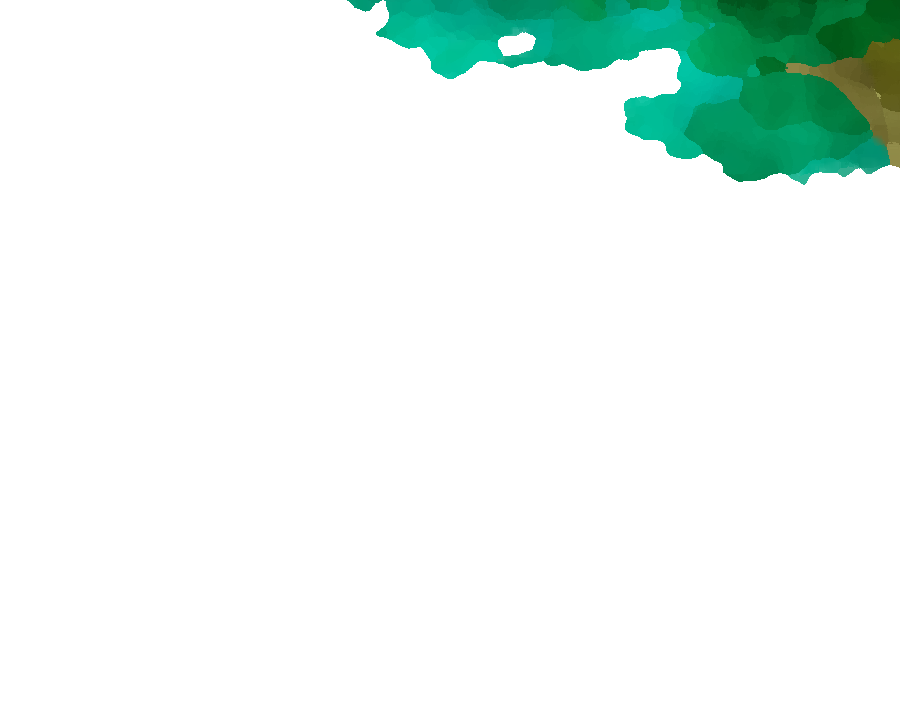
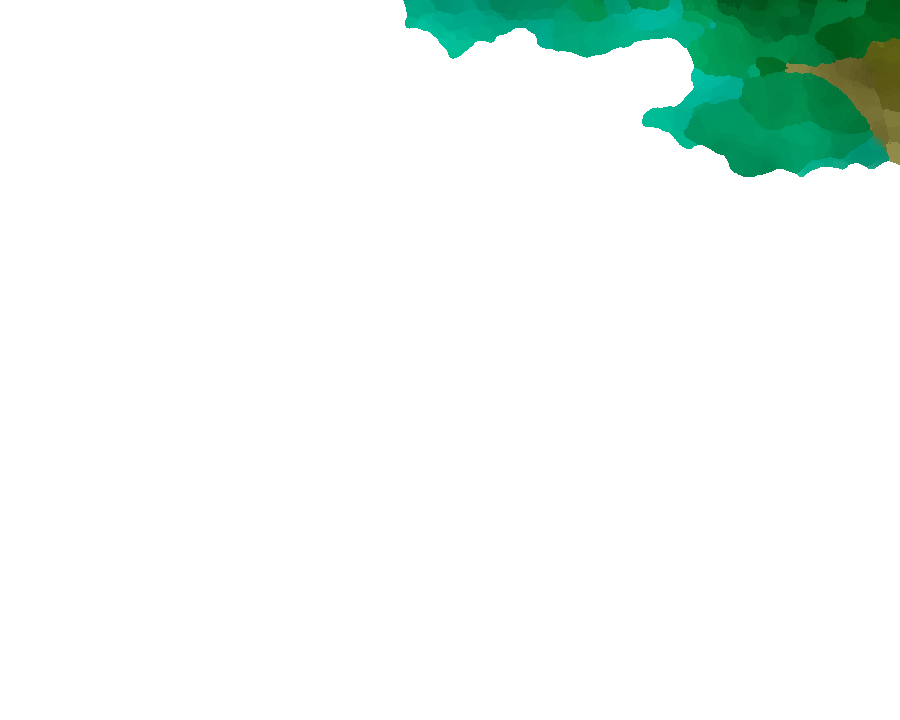
Add files via upload

Changed region(s): [[0.3733, 0.0, 0.8089, 0.2444], [0.84, 0.2139, 1.0, 0.275], [0.8089, 0.2444, 0.84, 0.275]]

diff --git a/src/Main.java b/src/Main.java
@@ -30,16 +30,18 @@ public class Main extends Application
     public static final int height = 800;
 
     public static double angleConstant = 30;
-    public static double xOffset = -200;
-    public static double yOffset = -50;
-
+    public static double xOffset = -180;
+    public static double yOffset = 0;
+    //
     ImageView imageViewBack;
     Image imgBack;
     String imgBackURL = "img\\back.png";
-
+    //
     ImageView imageViewFront;
     Image imgFront;
     String imgFrontURL = "img\\front.png";
+    //
+    private static double perlinOffset = Utils.getRandom(123456);
 
 
     //private static Color backcolor = Color.rgb(51, 51, 51);
@@ -53,11 +55,13 @@ public class Main extends Application
         Pane root = new Pane();
         child = root.getChildren();
 
+        //Back End
         imgBack = new Image(new FileInputStream(imgBackURL));
         imageViewBack = new ImageView(imgBack);
         imageViewBack.setFitWidth(width);
         imageViewBack.setFitHeight(height);
 
+        //Front End
         imgFront = new Image(new FileInputStream(imgFrontURL));
         imageViewFront = new ImageView(imgFront);
         imageViewFront.setFitWidth(width);
@@ -66,14 +70,9 @@ public class Main extends Application
 
         SunRise sunRise = new SunRise();
 
-        //Rectangle ground = new Rectangle(width, height * 0.30);
-
-        //ground.setLayoutY(height * 0.7);
-        //ground.setFill(Color.GREEN);
-
         FractalTree tree = new FractalTree();
 
-        child.addAll(sunRise.getNode(), imageViewBack, tree.getNode()); //, sakura.getNode()); //, test);
+        child.addAll(sunRise.getNode(), imageViewBack, tree.getNode());
 
         // End of Tree Branches
         ArrayList<Branch> endOfTrees = new ArrayList<>();
@@ -95,10 +94,14 @@ public class Main extends Application
         }
         child.add(imageViewFront);
 
-        root.setOnMouseMoved(e -> {
+        /*root.setOnMouseMoved(e -> {
             double angle = Utils.map(e.getSceneX(), 0, width, -90, 0);
             tree.update(angle);
-        });
+            for (Sakura sakura : sakuras)
+            {
+                sakura.update();
+            }
+        });*/
 
         //
         root.setOnKeyPressed(e -> {
@@ -125,17 +128,19 @@ public class Main extends Application
             }
         });
         //
-        update = new Timeline(new KeyFrame(Duration.millis(16), e -> {
+        update = new Timeline(new KeyFrame(Duration.millis(32), e -> {
             //60 fps
-            //System.out.println("loop test");
-            //Point2D p1 = b1.getFlowerPot();
-            //test.setCenterX(p1.getX());
-            //test.setCenterY(p1.getY());
+            double angle = SimpleNoise.noise(perlinOffset, 0, -90, 0, true);
+            tree.update(angle);
             for (Sakura sakura : sakuras)
             {
                 sakura.update();
             }
 
+
+
+
+            perlinOffset += 0.0025;
         }));
         update.setCycleCount(Timeline.INDEFINITE);
         update.setRate(1);

diff --git a/src/Sakura.java b/src/Sakura.java
@@ -19,6 +19,12 @@ public class Sakura implements IObservable
     private double size = 1;
     private boolean isSnapOff = false;
 
+    private double yvel = 0;
+    private double yacc = 0.01;
+    private double xvel = 0;
+    private double xacc = 0;
+    private double wind = Utils.getRandom(12345);
+
     static
     {
         rotate.setAngle(72);
@@ -31,8 +37,10 @@ public class Sakura implements IObservable
         body.setLayoutX(-30);
         body.setLayoutY(-30);
         draw();
-        body.setScaleX(2);
-        body.setScaleY(2);
+        size = Utils.getRandom(1, 1.9);
+        body.setScaleX(size);
+        body.setScaleY(size);
+        body.setRotate(Utils.getRandom(360));
     }
 
     private void draw()
@@ -70,9 +78,36 @@ public class Sakura implements IObservable
 
     public void update()
     {
-        Point2D pnt = root.getFlowerPot();
-        this.body.setLayoutX(pnt.getX());
-        this.body.setLayoutY(pnt.getY());
+        if (!isSnapOff)
+        {
+            Point2D pnt = root.getFlowerPot();
+            this.body.setLayoutX(pnt.getX());
+            this.body.setLayoutY(pnt.getY());
+            if (size > 2.3)
+            {
+                isSnapOff = true;
+            } else
+            {
+                size += 0.001;
+            }
+        } else
+        {
+            this.body.setLayoutY(body.getLayoutY() + yvel);
+            this.body.setLayoutX(body.getLayoutX() + xvel);
+            xacc = SimpleNoise.noise(wind, 0, -0.01, 0.025, true);
+            yvel += yacc;
+            xvel += xacc;
+
+            if (this.body.getLayoutY() > Main.height + 2)
+            {
+                isSnapOff = false;
+                size = Utils.getRandom(1, 1.9);
+                body.setScaleX(size);
+                body.setScaleY(size);
+                yvel = 0;
+                xvel = 0;
+            }
+        }
     }
 
     @Override
